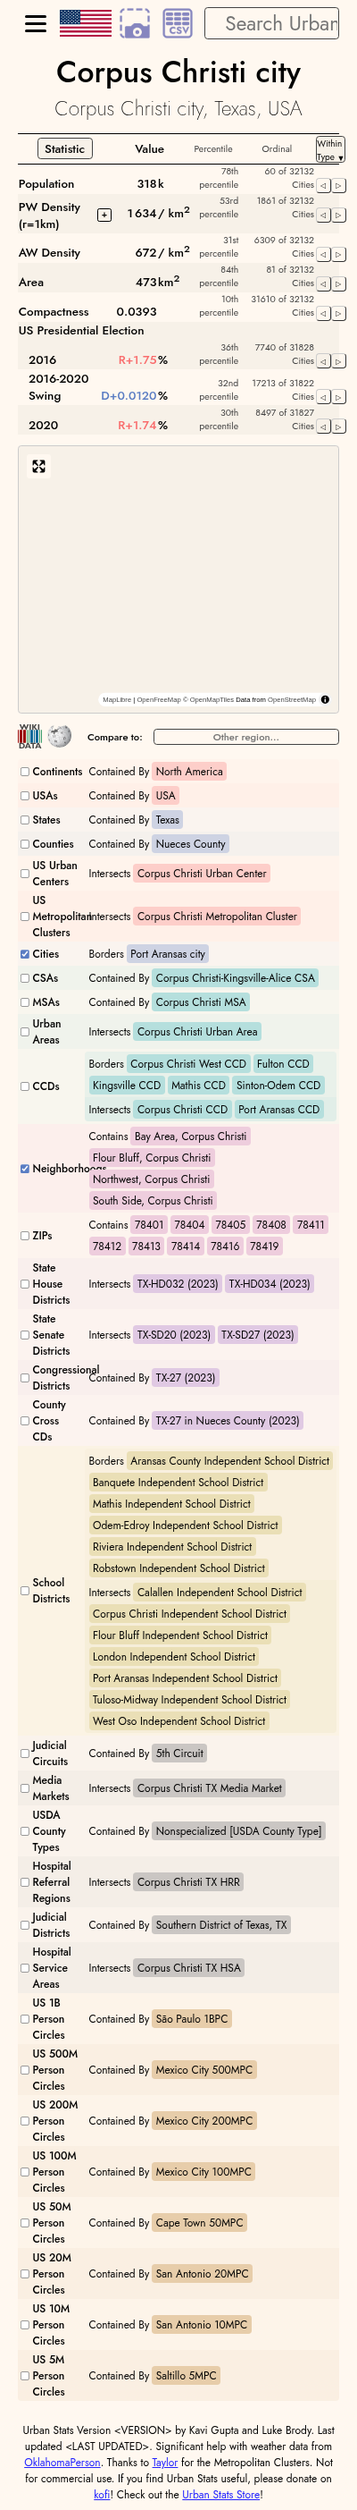
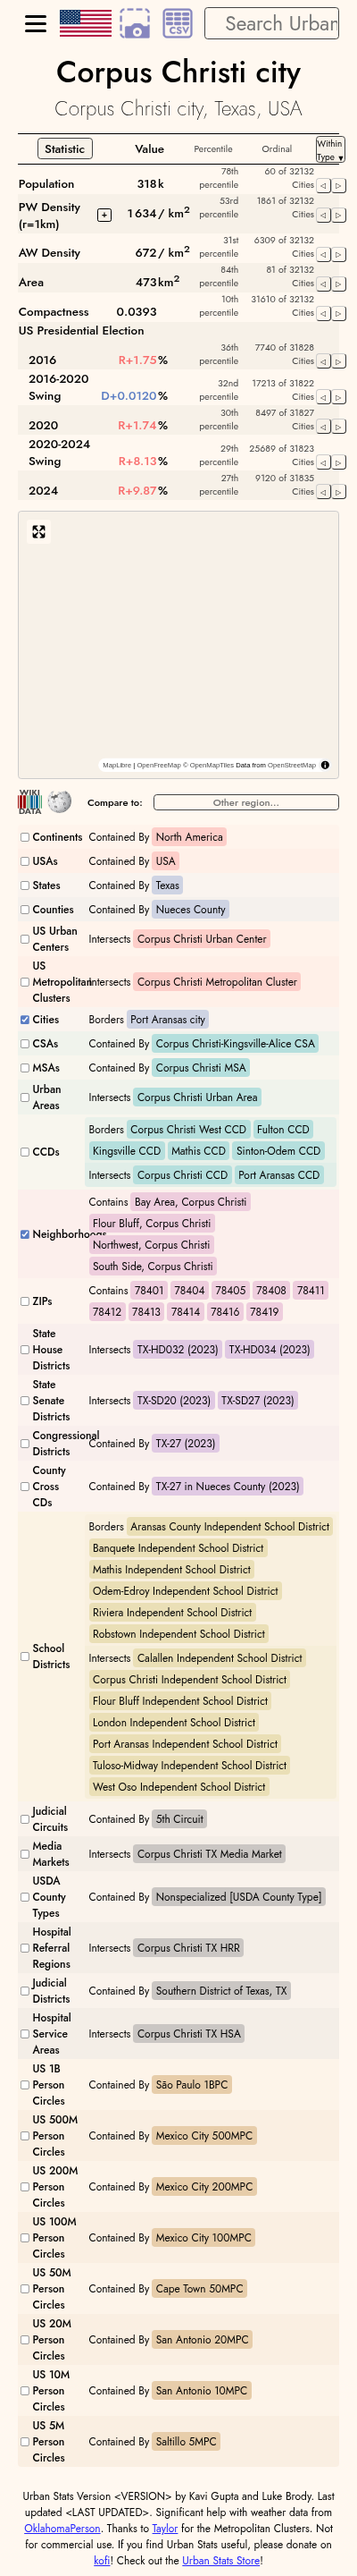
fix tests

diff --git a/react/test/article_link_settings.test.ts b/react/test/article_link_settings.test.ts
@@ -15,5 +15,5 @@ urbanstatsFixture('article with election category param', `${target}/article.htm
 
 test('contains only stats for election', async (t) => {
     const statisticLinkTests = ClientFunction(() => Array.from(document.querySelectorAll('[data-test-id=statistic-link]')).map(element => element.textContent))
-    await t.expect(statisticLinkTests()).eql(['2016', '2016-2020 Swing', '2020'])
+    await t.expect(statisticLinkTests()).eql(['2016', '2016-2020 Swing', '2020', '2020-2024 Swing', '2024'])
 })
